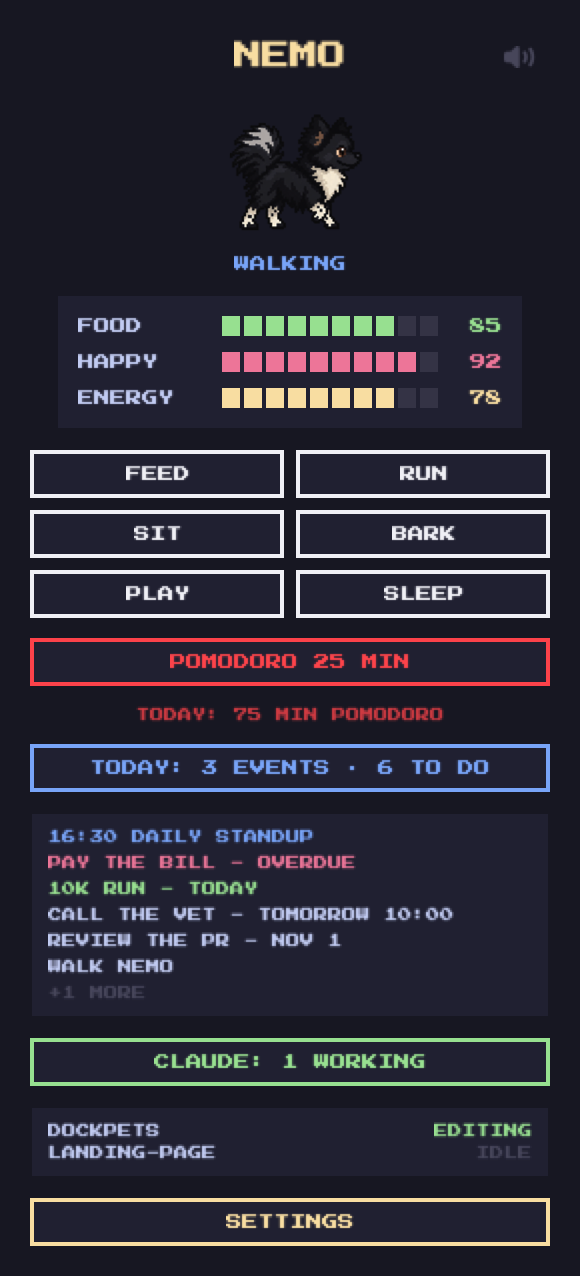
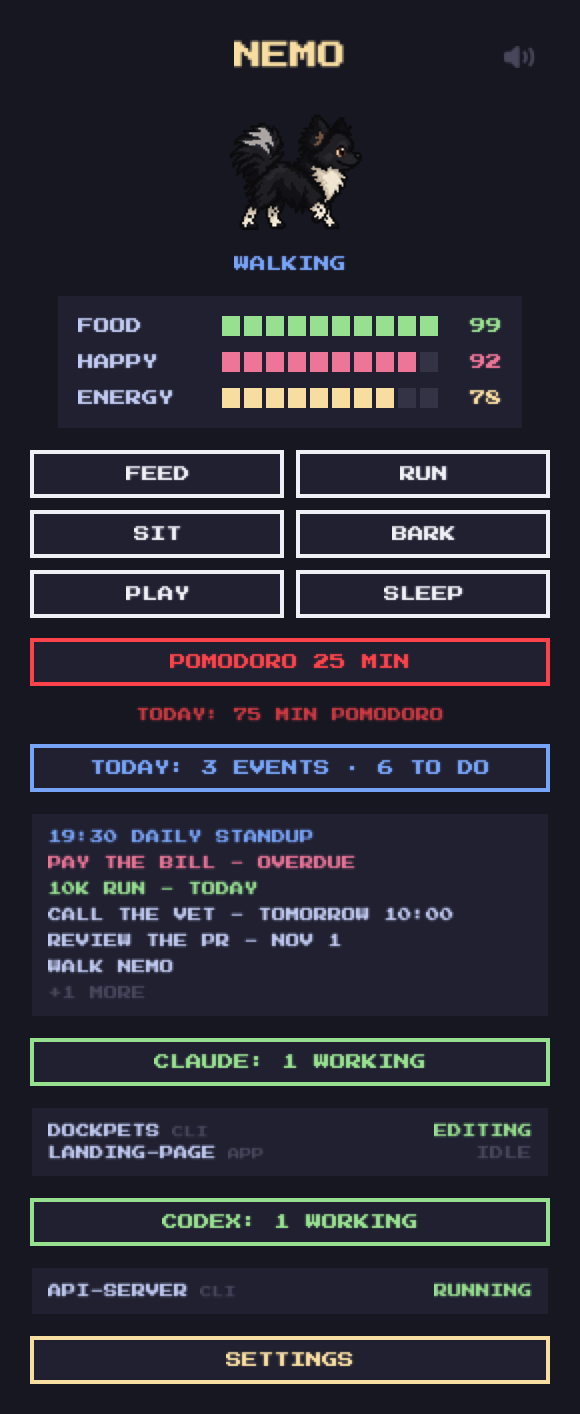
Codex support, session origin tags, the Codex window

Changed region(s): [[0.031, 0.0917, 0.9621, 0.9781], [0.4034, 0.0306, 0.5897, 0.0611], [0.869, 0.0306, 0.931, 0.0611]]

diff --git a/README.md b/README.md
@@ -23,6 +23,9 @@ Claude works, barks when a task is done, and reminds you to take a break.
   `RUNNING`…). When a session finishes she barks with the project's name. When Claude waits for you, she asks `?`.
   It works with several sessions at once, in the terminal, the Claude desktop app's Code tab or an IDE extension
   (local sessions; not the chat or Claude Code on the web).
+- **Codex too.** Connect Codex in settings, and Nemo reacts to its sessions the same way. A purple CODEX button
+  lists them, and its window shows each session's model, context and tokens.
+- **Where each session runs.** A small `CLI` / `APP` / `IDE` tag next to every session.
 - **Claude window.** One card per open session: the model, the context bar, tokens and a cost estimate, plus
   today's summary across every session.
 - **Pomodoro.** Focus and breaks, with the countdown in her bubble next to what Claude is doing, and today's minutes
@@ -34,15 +37,15 @@ Claude works, barks when a task is done, and reminds you to take a break.
 - **Stats without guilt.** Food, happiness and energy only change her mood. Nothing bad happens if you forget her.
 - **Turkish, English and German.**
 
-| Menu bar panel | Tasks window | Settings | About |
-|---|---|---|---|
-| <img src="docs/menu-bar-panel.png" width="200" alt="The panel: stats, actions, pomodoro, today's events and reminders, the Claude sessions"> | <img src="docs/today-window.png" width="240" alt="Today's events and every open reminder with when it is due"> | <img src="docs/settings.png" width="200" alt="Settings"> | <img src="docs/about.png" width="240" alt="The about window: how dockpets began"> |
+| Menu bar panel | Tasks window | Codex window | Settings | About |
+|---|---|---|---|---|
+| <img src="docs/menu-bar-panel.png" width="200" alt="The panel: stats, actions, pomodoro, today's events and reminders, the Claude sessions"> | <img src="docs/today-window.png" width="240" alt="Today's events and every open reminder with when it is due"> | <img src="docs/codex-window.png" width="220" alt="The Codex window: model, context and tokens per session"> | <img src="docs/settings.png" width="200" alt="Settings"> | <img src="docs/about.png" width="240" alt="The about window: how dockpets began"> |
 
 ## Built with
 
 - Swift, AppKit and SwiftUI, with no third-party dependencies
 - EventKit for Calendar and Reminders
-- Claude Code hooks and transcripts for the live session status
+- Claude Code and Codex hooks and transcripts for the live session status
 - Hand-tuned pixel-art sprite sheets, the Press Start 2P and Fraunces fonts, and Nemo's real bark
 
 ## Download
